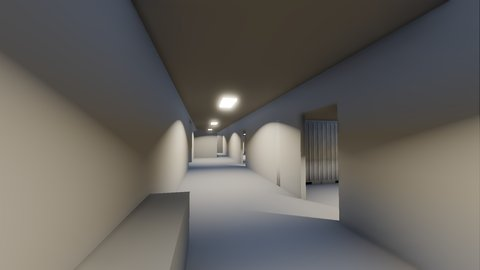
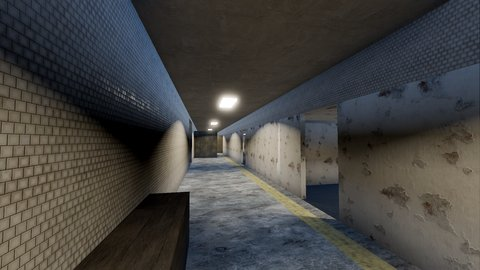
PP1: map pictures draw Subway's station dress and lift cars
Claude-Session: https://claude.ai/code/session_01JjsDizPSNNdgiwyUVYvtoG

diff --git a/docs/records/PP1.md b/docs/records/PP1.md
@@ -124,7 +124,10 @@ against 15.6 %, within noise). Nothing outside its band by two standard errors.
 
 The owner asked (2026-11-11) for the map pictures rendered again before the Dev 3 tag: all four (`assets/maps/*.jpg`
 and `cards/`) from their spots in `docs/ASSETS.md`, on Forward+ with lavapipe. Woodland's far treeline is now green
-(FT1) and Depot shows its worn lamps (DW1); the KNOWN_ISSUES row is deleted.
+(FT1) and Depot shows its worn lamps (DW1); the KNOWN_ISSUES row is deleted. `tools/eye_pictures.gd` built Subway
+without its station dress (MT3's tiles, terrazzo and platform edge) or its lift cars, since it never passed the
+level `tuning.lifts` and `play.station_look` nor built a `LiftView` as `play_session.gd` does (critic, attempt 1):
+both are passed now, and Subway's picture shows the station as you play it.
 
 ## Known issues left
 
